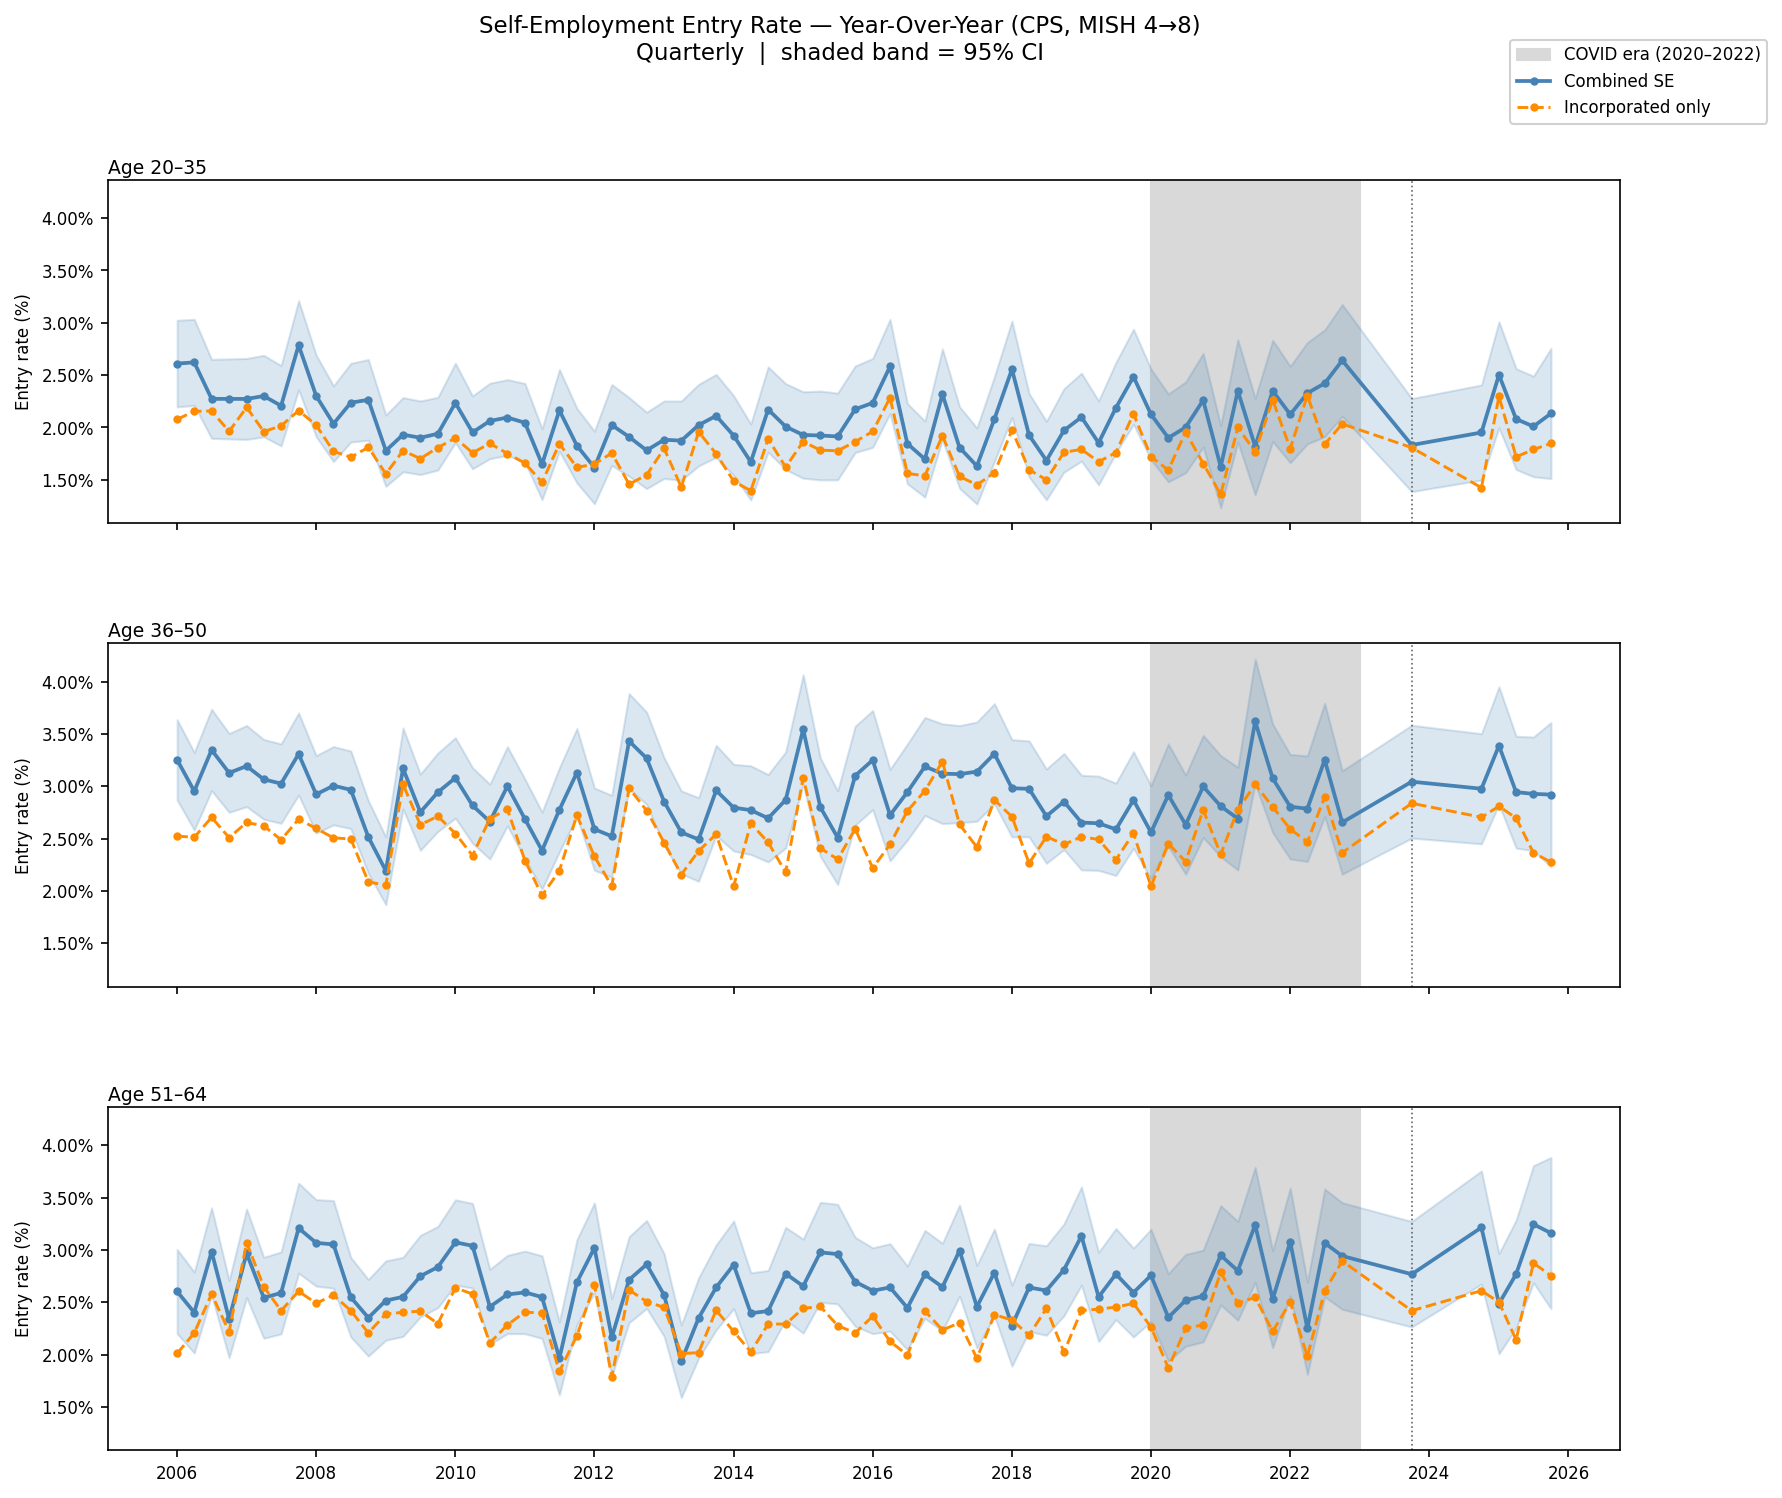
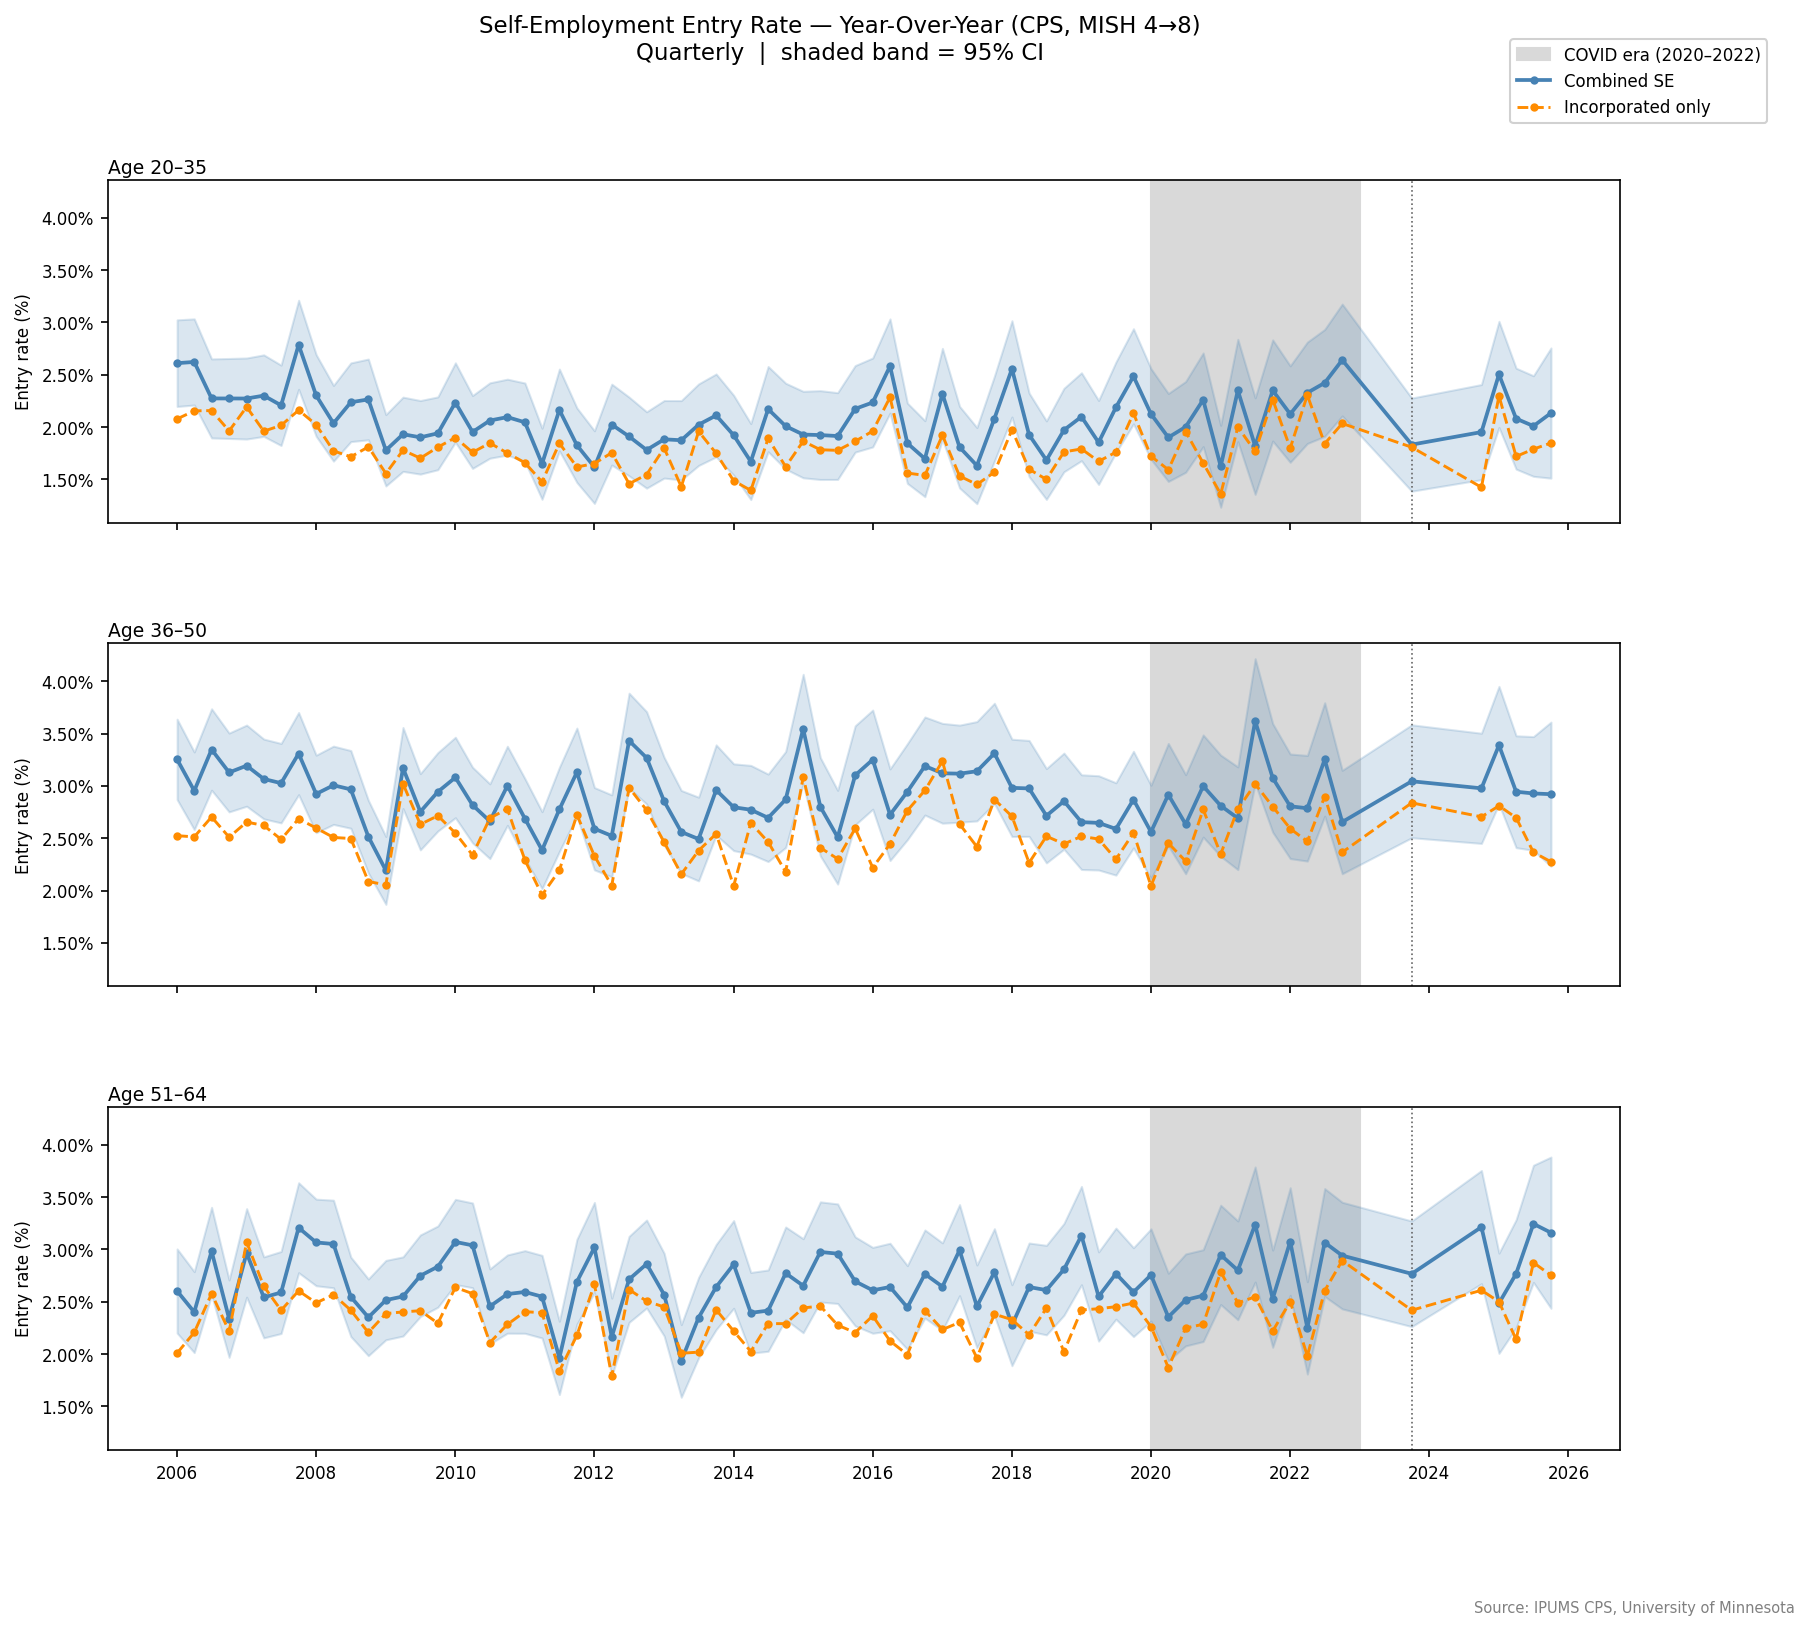
adding data attribution to charts

diff --git a/scripts/05_visualize.py b/scripts/05_visualize.py
@@ -106,6 +106,9 @@ def plot_mom(df: pd.DataFrame) -> plt.Figure:
     fig.legend(handles, labels, loc="upper right", fontsize=8, framealpha=0.9,
                bbox_to_anchor=(0.98, 0.97))
 
+    fig.text(0.99, 0.01, "Source: IPUMS CPS, University of Minnesota",
+             ha="right", va="bottom", fontsize=7, color="0.5")
+
     return fig
 
 
@@ -154,6 +157,9 @@ def plot_yoy(df: pd.DataFrame) -> plt.Figure:
     handles, labels = axes[0].get_legend_handles_labels()
     fig.legend(handles, labels, loc="upper right", fontsize=8, framealpha=0.9,
                bbox_to_anchor=(0.98, 0.97))
+
+    fig.text(0.99, 0.01, "Source: IPUMS CPS, University of Minnesota",
+             ha="right", va="bottom", fontsize=7, color="0.5")
 
     return fig
 
